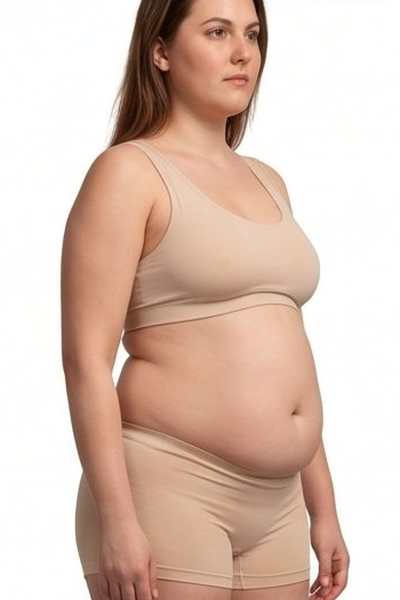
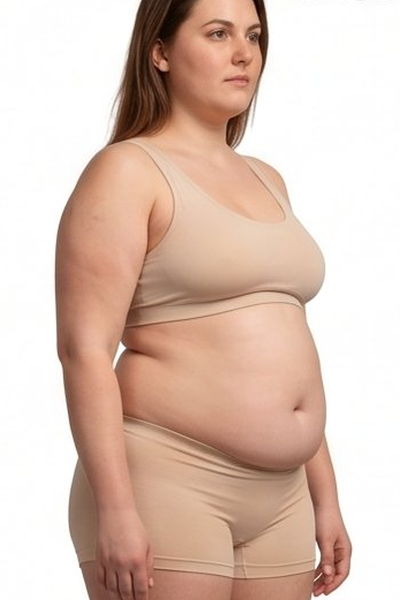
Female BF images: shift 45-57 back one step, remove 57
- f_42 now shows old f_45 (no more duplicate with f_39)
- f_45 → f_48, f_48 → f_51, f_51 → f_54, f_54 → f_57
- Removed f_57_0.png
- Removed 57 from BF_LEVELS_FEMALE array in both quiz files

diff --git a/fitness-quiz/index.html b/fitness-quiz/index.html
@@ -1164,7 +1164,7 @@
   // Male:   16 fat% cols (6–51) × 1 muscle level (no muscle variation in lean mode)
   // Female: 16 fat% cols (12–57) × 1 muscle level (no muscle variation in lean mode)
   const BF_LEVELS_MALE   = [6, 9, 12, 15, 18, 21, 24, 27, 30, 33, 36, 39, 42, 45, 48, 51];
-  const BF_LEVELS_FEMALE = [15, 18, 21, 24, 27, 30, 33, 36, 39, 42, 45, 48, 51, 54, 57];
+  const BF_LEVELS_FEMALE = [15, 18, 21, 24, 27, 30, 33, 36, 39, 42, 45, 48, 51, 54];
 
   // Labels ordered index-0 = MOST muscular; uniform lengths prevent badge width jump
   const MUSCLE_LABELS_MALE   = ['מתקדם', 'מאוד מאומן', 'מאומן', 'מתחיל', 'עובד עליו', 'לא מאומן'];

diff --git a/fitness-quiz/safequiz/index.html b/fitness-quiz/safequiz/index.html
@@ -1076,7 +1076,7 @@
   // Male:   16 fat% cols (6–51) × 1 muscle level (no muscle variation in lean mode)
   // Female: 16 fat% cols (12–57) × 1 muscle level (no muscle variation in lean mode)
   const BF_LEVELS_MALE   = [6, 9, 12, 15, 18, 21, 24, 27, 30, 33, 36, 39, 42, 45, 48, 51];
-  const BF_LEVELS_FEMALE = [15, 18, 21, 24, 27, 30, 33, 36, 39, 42, 45, 48, 51, 54, 57];
+  const BF_LEVELS_FEMALE = [15, 18, 21, 24, 27, 30, 33, 36, 39, 42, 45, 48, 51, 54];
 
   // Labels ordered index-0 = MOST muscular; uniform lengths prevent badge width jump
   const MUSCLE_LABELS_MALE   = ['מתקדם', 'מאוד מאומן', 'מאומן', 'מתחיל', 'עובד עליו', 'לא מאומן'];
